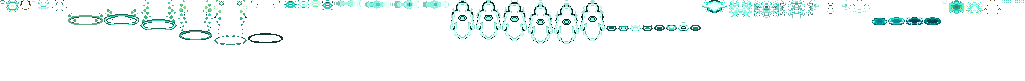
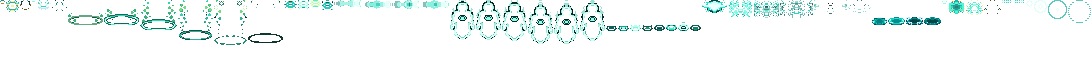
league_illaoi: a hit on a spirited champion shows - the spirit flashes (e_echo, fx_illaoi_tether.py) and a ghost hand (e_grab) flies down the tether to the body (「打灵魂时也没特效啊 别人看了不知道在干嘛」)

diff --git a/addons/league_illaoi/src/lib.rs b/addons/league_illaoi/src/lib.rs
@@ -43,6 +43,8 @@ pub const SINK_T: usize = 18;
 /// 灵魂画面（e_spirit，6 帧 x 100 ms）多久重播一次；灵魂线每节多远（tools/art/fx_illaoi_tether.py LENGTH x 1000）。
 pub const SOUL_T: usize = 36;
 pub const LINK_STEP: f64 = 10_000.0;
+/// 灵魂挨打时飞回本体的鬼手多快（一 tick）。
+pub const PULSE_SPEED: u64 = 8_000;
 /// 墙格子每格的世界单位（地图的 `walls`，卡密尔附加包同）。
 const CELL: f64 = 32000.0;
 
@@ -490,7 +492,39 @@ fn link(sim: &mut StableSim<'_>, me: usize, c: (f64, f64), dir: (f64, f64)) -> b
     sim.spawn_projectile(&il("e_tether"), &format!("{ID}:noop"), &spec)
 }
 
+/// 灵魂挨打（用户：「打灵魂时也没特效啊 别人看了不知道在干嘛」）：灵魂身上一闪（`e_echo`），一道鬼手（`e_grab`）顺着线飞回本体。
+fn echo_fx(sim: &mut StableSim<'_>, me: usize, spot: (f64, f64), body: (f64, f64)) {
+    sim.play_view_effect(&il("e_echo"), me, &at(spot), 0, 0, 0);
+    if dist(spot, body) < 2_000.0 {
+        return;
+    }
+    let spec = ProjectileSpawnV1 {
+        caster_id: me,
+        team: sim.get_entity(me).map_or(0, |e| e.team()),
+        x: spot.0.round().max(0.0) as u64,
+        y: spot.1.round().max(0.0) as u64,
+        radius: 1_000,
+        speed: PULSE_SPEED,
+        move_kind: ProjectileMoveKindV1::Linear.code(),
+        target_id: 0,
+        target_x: body.0.round().max(0.0) as u64,
+        target_y: body.1.round().max(0.0) as u64,
+        penetrate: true,
+        attack_type: AttackTypeV1::Skill.code(),
+        casting_type: CastingTypeV1::Position.code(),
+        casting_target: CastingTargetV1::None.code(),
+    };
+    sim.spawn_projectile(&il("e_grab"), &format!("{ID}:noop"), &spec);
+}
+
 impl Prophet {
+    /// 灵魂被扯出来的英雄 `target` 挨了一下：灵魂闪一下、一道鬼手飞回本体。
+    fn echoed(&self, sim: &mut StableSim<'_>, me: usize, target: usize) {
+        let Some(s) = self.spirits.iter().find(|s| s.target == target) else { return };
+        let Some(body) = sim.get_entity(target).map(|e| fpos(e.pos())) else { return };
+        echo_fx(sim, me, s.spot, body);
+    }
+
     fn walls(&mut self, us: &[Unit]) -> &Walls {
         if self.walls.is_none() {
             let points: Vec<(f64, f64)> = us.iter().map(|u| u.pos).collect();
@@ -566,6 +600,7 @@ impl Prophet {
             return;
         }
         let tp = fpos(t.pos());
+        self.echoed(sim, me, target);
         let dmg = strike_damage(self.p.t_dmg, self.p.t_ratio, attack);
         sim.deal_damage_typed(me, target, dmg, DamageTypeV1::Ad, AttackTypeV1::Skill);
         sim.play_view_effect(&il("lash"), me, &at(tp), 0, 0, 0);
@@ -749,6 +784,7 @@ impl StablePassive for Prophet {
         }
         let extra = *damage * self.p.e_echo / 100;
         *damage += extra;
+        self.echoed(sim, me, target);
         self.n_echo += 1;
         if self.n_echo <= 10 || self.n_echo % 100 == 0 {
             wlog(format!("{} ECHO #{}: #{target} +{extra}", head(sim, me), self.n_echo));

diff --git a/tools/art/fx_illaoi_tether.py b/tools/art/fx_illaoi_tether.py
@@ -44,9 +44,35 @@ def e_tether():
     return out
 
 
+def e_echo():
+    """The spirit struck (the user: 「打灵魂时也没特效啊 别人看了不知道在干嘛」): a white flash on its chest and a pale ring
+    thrown out round it, 4 frames - played on the spirit's spot each time a hit on its body echoes."""
+    out = []
+    for k, (core, ring) in enumerate([(3, 0), (2, 6), (1, 9), (0, 11)]):
+        n = 2 * 12 + 1
+        a = np.zeros((n, n, 4), np.uint8)
+        c = 12
+        for y in range(n):
+            for x in range(n):
+                d = ((x - c) ** 2 + (y - c) ** 2) ** 0.5
+                col = None
+                if core and d <= core:
+                    col = GHOST[0] if d <= core - 1 else GHOST[1]
+                elif ring and abs(d - ring) < 0.7:
+                    col = GHOST[1] if k < 2 else GHOST[3]
+                if col is not None:
+                    a[y, x, :3] = col
+                    a[y, x, 3] = 255
+        # the ring breaks up as it fades
+        if k == 3:
+            a[::2, :, 3] = 0
+        out.append((G.centre_frame(a, -c, -c), [40, 50, 60, 70][k]))
+    return out
+
+
 def frames():
     """{tag: [(frame centred on its pivot, ms)]} - in league_illaoi_fx (tools/art/import_illaoi_fx.py)."""
-    return {"e_tether": e_tether()}
+    return {"e_tether": e_tether(), "e_echo": e_echo()}
 
 
 def main():

diff --git a/tools/kit/build_illaoi.py b/tools/kit/build_illaoi.py
@@ -341,7 +341,9 @@ def build(p):
                # spirit standing on its own spot (league_illaoi:prophet plays them on a position)
                *[{"type": "Animation", "name": n(f"tentacle_{k}"), "anim": TENTACLE, "tag": k, "z": 1, "is_follow": False}
                  for k in ("rise", "sway", "sink")],
-               E("e_soul", FX, 3, False) | {"tag": "e_spirit"}]
+               E("e_soul", FX, 3, False) | {"tag": "e_spirit"},
+               # the spirit struck: its flash on the spirit's spot (the add-on, with a pulse down the tether)
+               E("e_echo", FX, 3, False)]
     views_p.append(Pj("e_tether"))     # a link of the spirit's tether (the add-on spawns a chain every tick)
     # the copy's spirit stands apart (e_soul, played by the add-on), not drawn over the body it was torn from
     views_b = [B_("p_heal", FX, 3), B_("w_mark", FX, 3), *([] if native else [B_("e_spirit", FX, 3)]),
